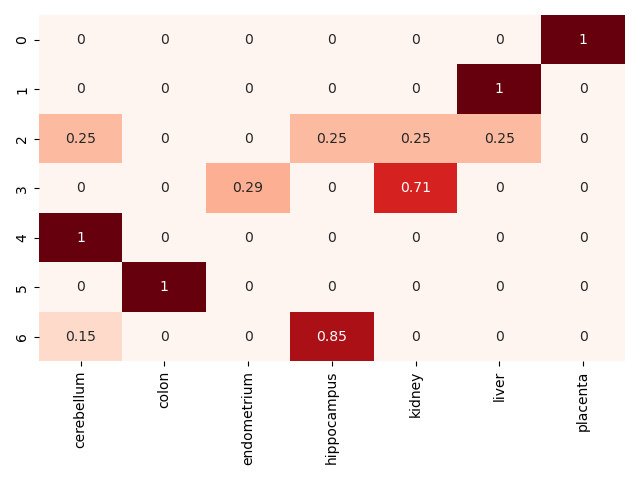
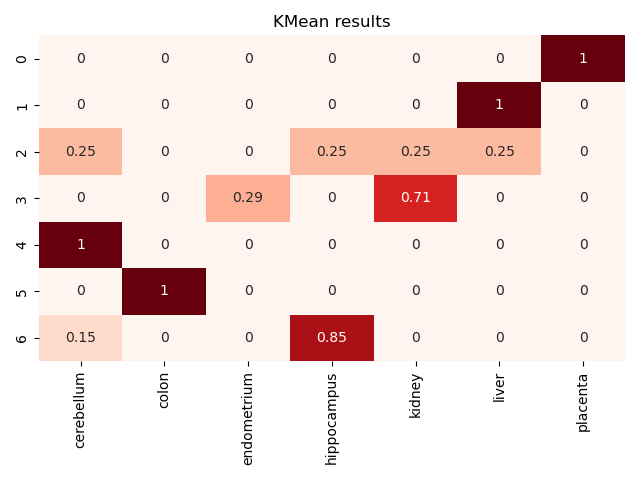
:sparkles: Updated plots

diff --git a/main.py b/main.py
@@ -1,8 +1,7 @@
 from classes import KMeans, DBSCAN, plot_gmm
 import pandas as pd
-from sklearn.decomposition import PCA, TruncatedSVD
+from sklearn.decomposition import PCA
 import numpy as np
-from sklearn.discriminant_analysis import LinearDiscriminantAnalysis as LDA
 
 from sklearn.mixture import GaussianMixture
 from scipy.cluster import hierarchy
@@ -16,6 +15,7 @@ from sklearn.metrics.cluster import adjusted_rand_score
 from sklearn import metrics
 import warnings
 from sklearn.exceptions import DataConversionWarning
+
 warnings.filterwarnings(action='ignore', category=DataConversionWarning)
 
 
@@ -40,6 +40,7 @@ def test_models(models, X, y):
     df_result.set_index(df_result['model'], inplace=True)
     df_result.drop('model', axis=1, inplace=True)
     sns.heatmap(df_result, annot=True, cmap="Blues", cbar=False)
+    plt.title("Scores")
     plt.savefig(f"./plots/heatmap_scores.png")
     df_result.to_csv("./results/heatmap_scores.csv")
     plt.clf()
@@ -123,6 +124,7 @@ def test_kmean(x, y):
         print(f"Cluster {i} is {index} - {df.loc[i, index]}")
     print("-------------------------------")
     sns.heatmap(df, annot=True, cmap="Reds", cbar=False)
+    plt.title("KMean results")
     plt.tight_layout()
     plt.savefig("./plots/kmean_heatmap.png")
     plt.clf()
@@ -153,6 +155,7 @@ def test_dbscan(x, y):
         print(f"Cluster {i - 1} is {index} - {df.loc[i, index]}")
     print("-------------------------------")
     sns.heatmap(df, annot=True, cmap="Reds", cbar=False)
+    plt.title("DBSCAN results")
     plt.tight_layout()
     plt.savefig("./plots/dbscan_heatmap.png")
     plt.clf()
@@ -182,6 +185,7 @@ def test_gmm(x, y):
         print(f"Cluster {i} is {index} - {df.loc[i, index]}")
     print("-------------------------------")
     sns.heatmap(df, annot=True, cmap="Reds", cbar=False)
+    plt.title("GMM results")
     plt.tight_layout()
     plt.savefig("./plots/gmm_heatmap.png")
     plt.clf()
@@ -193,6 +197,7 @@ def test_agglomerative_clustering(x):
     plt.figure(figsize=(8, 6))
     hierarchy.dendrogram(clusters, leaf_font_size=0)
     plt.axhline(396, color='crimson')
+    plt.ylabel("Height")
     plt.savefig("./plots/agglomerative_clustering.png")
     plt.clf()
 

diff --git a/classes/kmeans.py b/classes/kmeans.py
@@ -52,6 +52,9 @@ class KMeans:
             plt.scatter(self.df_training_clustered[self.df_training_clustered['cluster'] == i].iloc[:, 0],
                         self.df_training_clustered[self.df_training_clustered['cluster'] == i].iloc[:, 1], label=int(i))
         plt.legend()
+        plt.title('KMeans')
+        plt.xlabel('x - First Feature')
+        plt.ylabel('y - Second Feature')
 
     def fit_predict(self, data):
         n_cols = data.shape[1]

diff --git a/classes/dbscan.py b/classes/dbscan.py
@@ -65,3 +65,6 @@ class DBSCAN:
             plt.scatter(self.dataset[flatten_label == label, 0], self.dataset[flatten_label == label, 1],
                         label=int(label) - 1)
         plt.legend()
+        plt.title("DBSCAN")
+        plt.xlabel("x - First feature")
+        plt.ylabel("y - Second feature")

diff --git a/classes/gmm.py b/classes/gmm.py
@@ -7,3 +7,6 @@ def plot_gmm(x, labels):
     for label in u_label:
         plt.scatter(x[labels == label, 0], x[labels == label, 1], label=label)
     plt.legend()
+    plt.title('GMM')
+    plt.xlabel('x - First Feature')
+    plt.ylabel('y - Second Feature')
